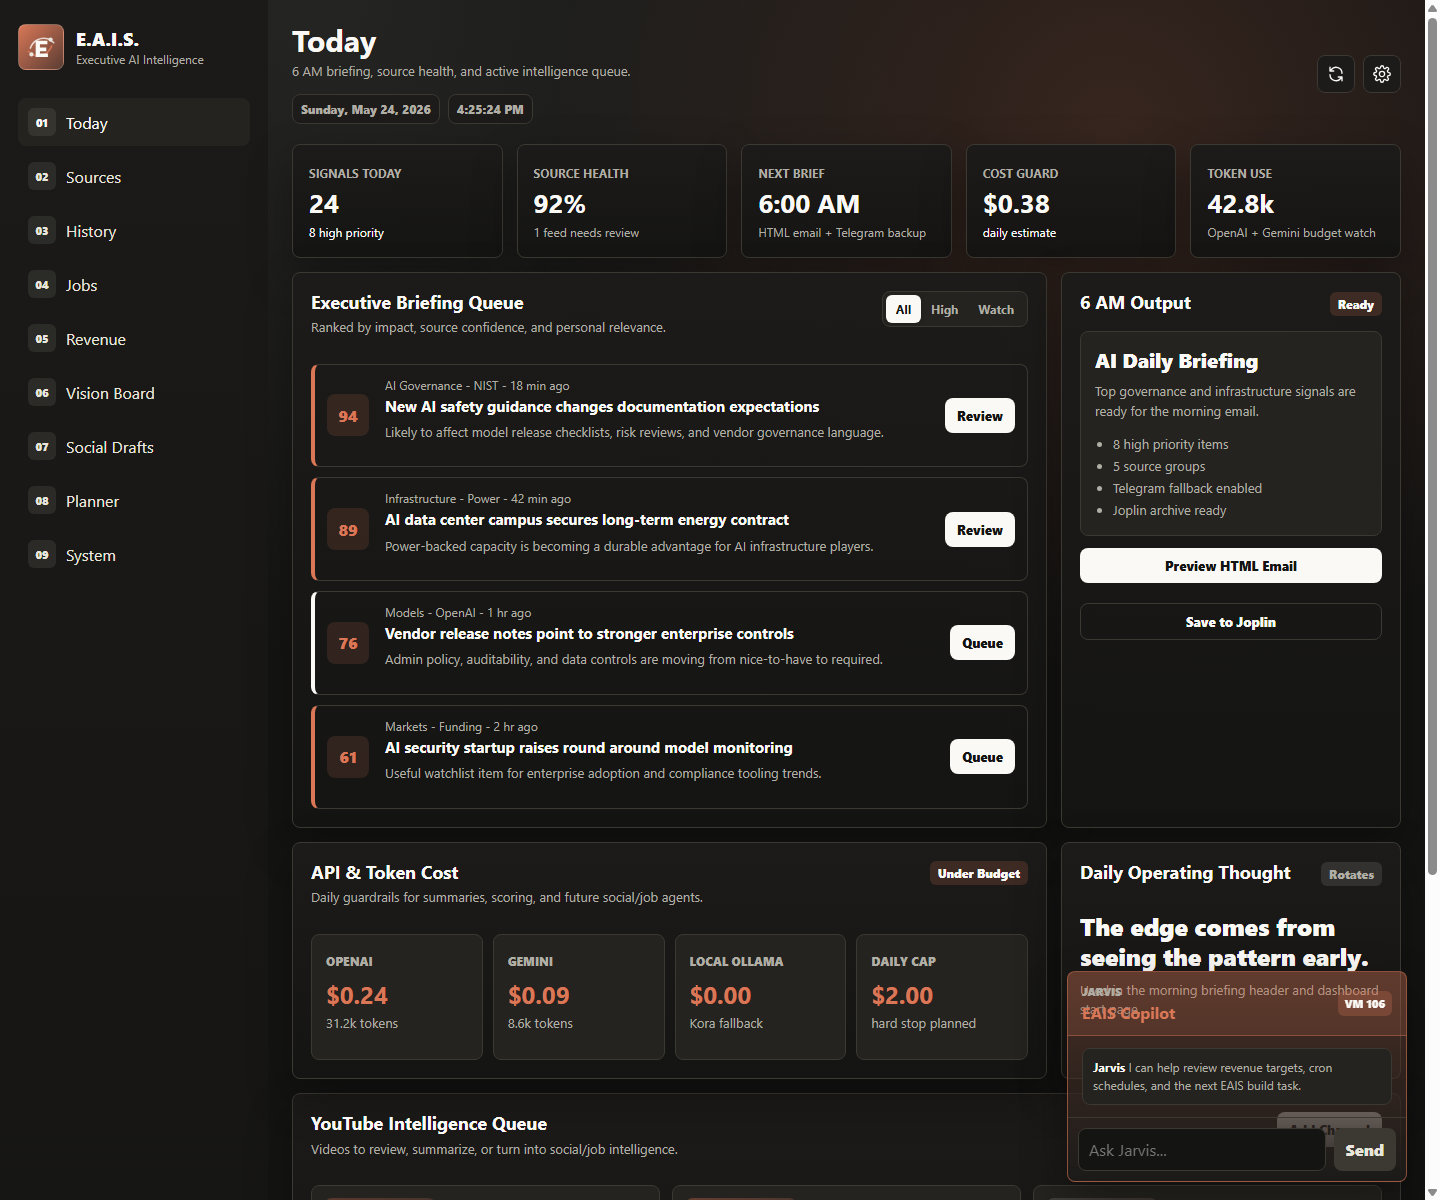
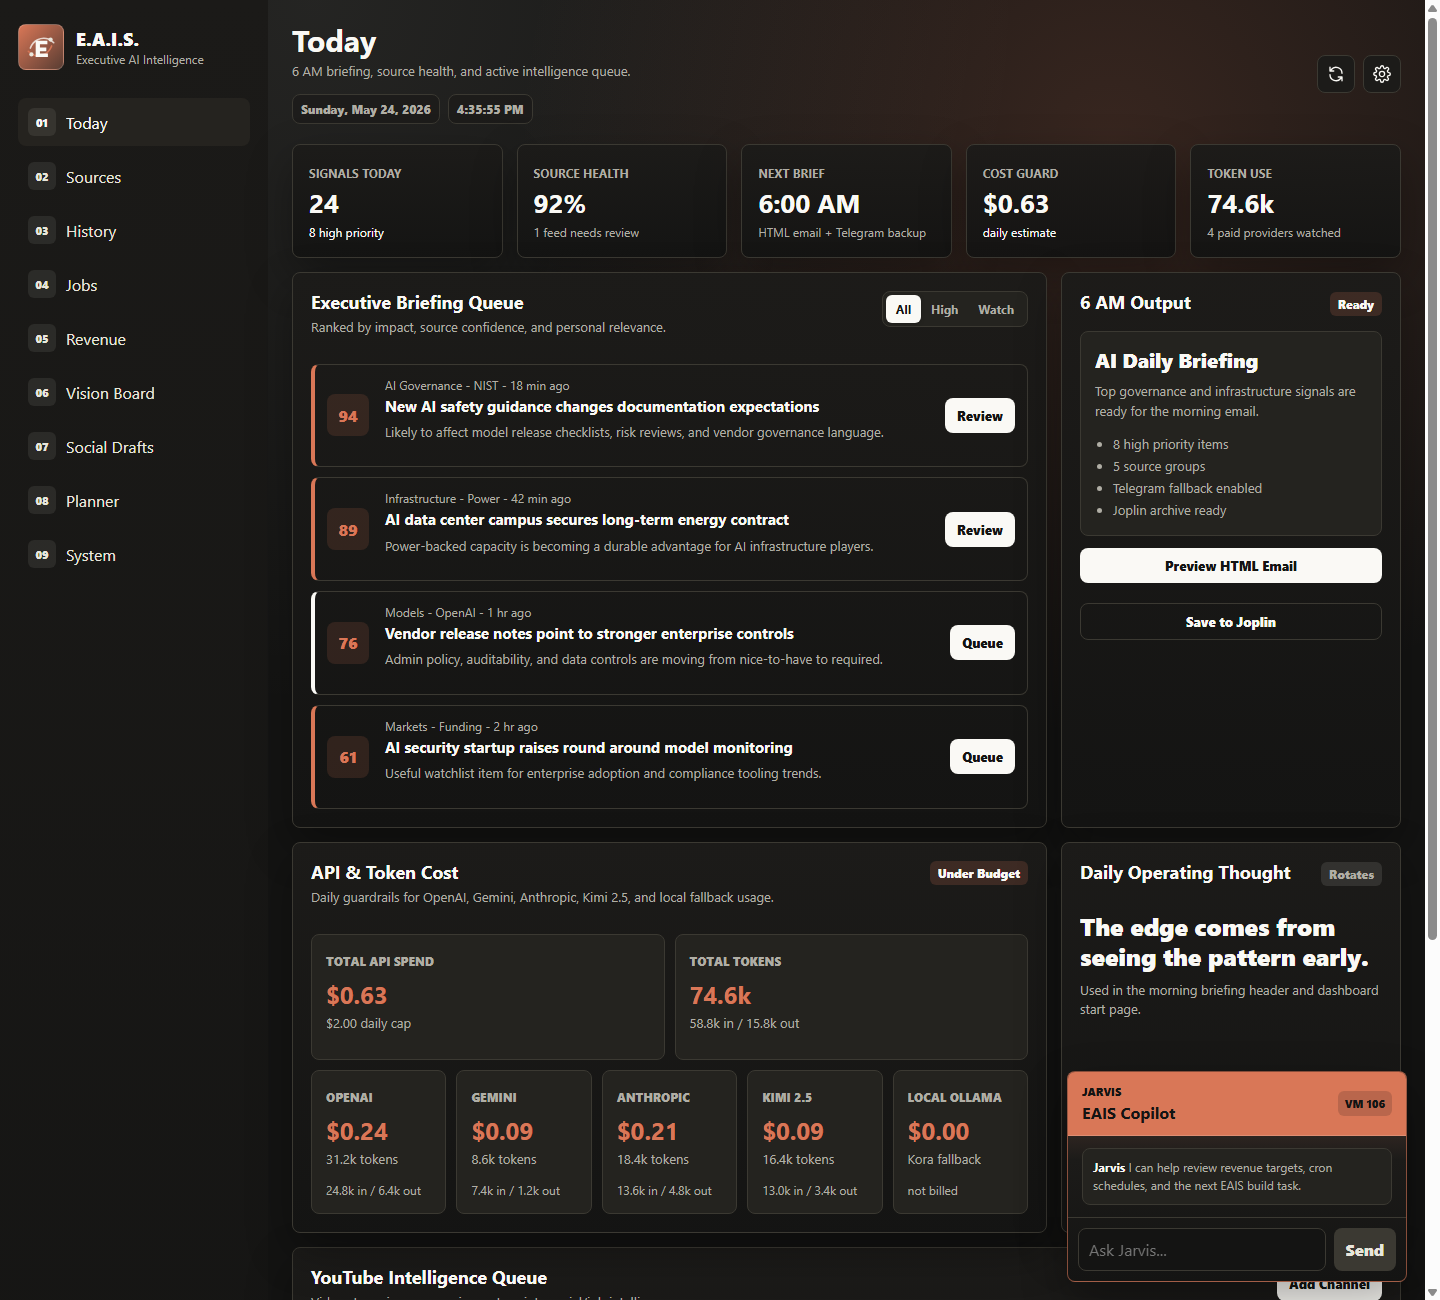
Add provider API cost counts

diff --git a/mockups/eais-dashboard/index.html b/mockups/eais-dashboard/index.html
@@ -110,13 +110,13 @@
             </article>
             <article class="metric-card">
               <span class="metric-label">Cost Guard</span>
-              <strong>$0.38</strong>
+              <strong>$0.63</strong>
               <span class="metric-note positive">daily estimate</span>
             </article>
             <article class="metric-card">
               <span class="metric-label">Token Use</span>
-              <strong>42.8k</strong>
-              <span class="metric-note">OpenAI + Gemini budget watch</span>
+              <strong>74.6k</strong>
+              <span class="metric-note">4 paid providers watched</span>
             </article>
           </div>
 
@@ -201,30 +201,52 @@
               <div class="panel-header">
                 <div>
                   <h2>API & Token Cost</h2>
-                  <p>Daily guardrails for summaries, scoring, and future social/job agents.</p>
+                  <p>Daily guardrails for OpenAI, Gemini, Anthropic, Kimi 2.5, and local fallback usage.</p>
                 </div>
                 <span class="status-pill good">Under Budget</span>
               </div>
-              <div class="cost-grid">
+              <div class="api-cost-summary">
                 <article>
+                  <span>Total API Spend</span>
+                  <strong>$0.63</strong>
+                  <p>$2.00 daily cap</p>
+                </article>
+                <article>
+                  <span>Total Tokens</span>
+                  <strong>74.6k</strong>
+                  <p>58.8k in / 15.8k out</p>
+                </article>
+              </div>
+              <div class="cost-grid">
+                <article class="provider-cost">
                   <span>OpenAI</span>
                   <strong>$0.24</strong>
                   <p>31.2k tokens</p>
+                  <small>24.8k in / 6.4k out</small>
                 </article>
-                <article>
+                <article class="provider-cost">
                   <span>Gemini</span>
                   <strong>$0.09</strong>
                   <p>8.6k tokens</p>
+                  <small>7.4k in / 1.2k out</small>
                 </article>
-                <article>
+                <article class="provider-cost">
+                  <span>Anthropic</span>
+                  <strong>$0.21</strong>
+                  <p>18.4k tokens</p>
+                  <small>13.6k in / 4.8k out</small>
+                </article>
+                <article class="provider-cost">
+                  <span>Kimi 2.5</span>
+                  <strong>$0.09</strong>
+                  <p>16.4k tokens</p>
+                  <small>13.0k in / 3.4k out</small>
+                </article>
+                <article class="provider-cost">
                   <span>Local Ollama</span>
                   <strong>$0.00</strong>
                   <p>Kora fallback</p>
-                </article>
-                <article>
-                  <span>Daily Cap</span>
-                  <strong>$2.00</strong>
-                  <p>hard stop planned</p>
+                  <small>not billed</small>
                 </article>
               </div>
             </section>

diff --git a/mockups/eais-dashboard/styles.css b/mockups/eais-dashboard/styles.css
@@ -539,10 +539,18 @@ h3 {
 
 .cost-grid {
   display: grid;
-  grid-template-columns: repeat(4, minmax(0, 1fr));
+  grid-template-columns: repeat(5, minmax(0, 1fr));
   gap: 10px;
 }
 
+.api-cost-summary {
+  display: grid;
+  grid-template-columns: repeat(2, minmax(0, 1fr));
+  gap: 10px;
+  margin-bottom: 10px;
+}
+
+.api-cost-summary article,
 .cost-grid article {
   border: 1px solid var(--line);
   border-radius: 8px;
@@ -550,6 +558,7 @@ h3 {
   padding: 14px;
 }
 
+.api-cost-summary span,
 .cost-grid span,
 .video-meta {
   color: var(--muted);
@@ -558,6 +567,7 @@ h3 {
   text-transform: uppercase;
 }
 
+.api-cost-summary strong,
 .cost-grid strong {
   display: block;
   margin: 8px 0 4px;
@@ -565,12 +575,20 @@ h3 {
   font-size: 24px;
 }
 
+.api-cost-summary p,
 .cost-grid p,
 .quote-panel p,
 .video-card p {
   color: var(--muted);
   font-size: 13px;
   line-height: 1.45;
+}
+
+.provider-cost small {
+  color: var(--muted);
+  display: block;
+  font-size: 12px;
+  line-height: 1.4;
 }
 
 .quote-panel blockquote {
@@ -1591,6 +1609,7 @@ h3 {
   .history-layout,
   .system-grid,
   .lower-grid,
+  .api-cost-summary,
   .cost-grid,
   .video-grid,
   .revenue-metric-grid,

diff --git a/mockups/eais-dashboard/README.md b/mockups/eais-dashboard/README.md
@@ -25,7 +25,7 @@ Current design direction:
 - Dark executive command-center theme.
 - Live date and time in the top bar.
 - Daily motivational operating thought.
-- API and token cost guardrails.
+- API and token cost guardrails for OpenAI, Gemini, Anthropic, Kimi 2.5, and local fallback.
 - YouTube intelligence queue for videos to summarize or turn into briefing/social inputs.
 - Revenue stream tracking for Pinterest, KalshiEdge, RepoReel/ClipEngine, EAIS reports, and future income projects.
 - Revenue sliders that update totals, monthly mix, and Vision Board progress.